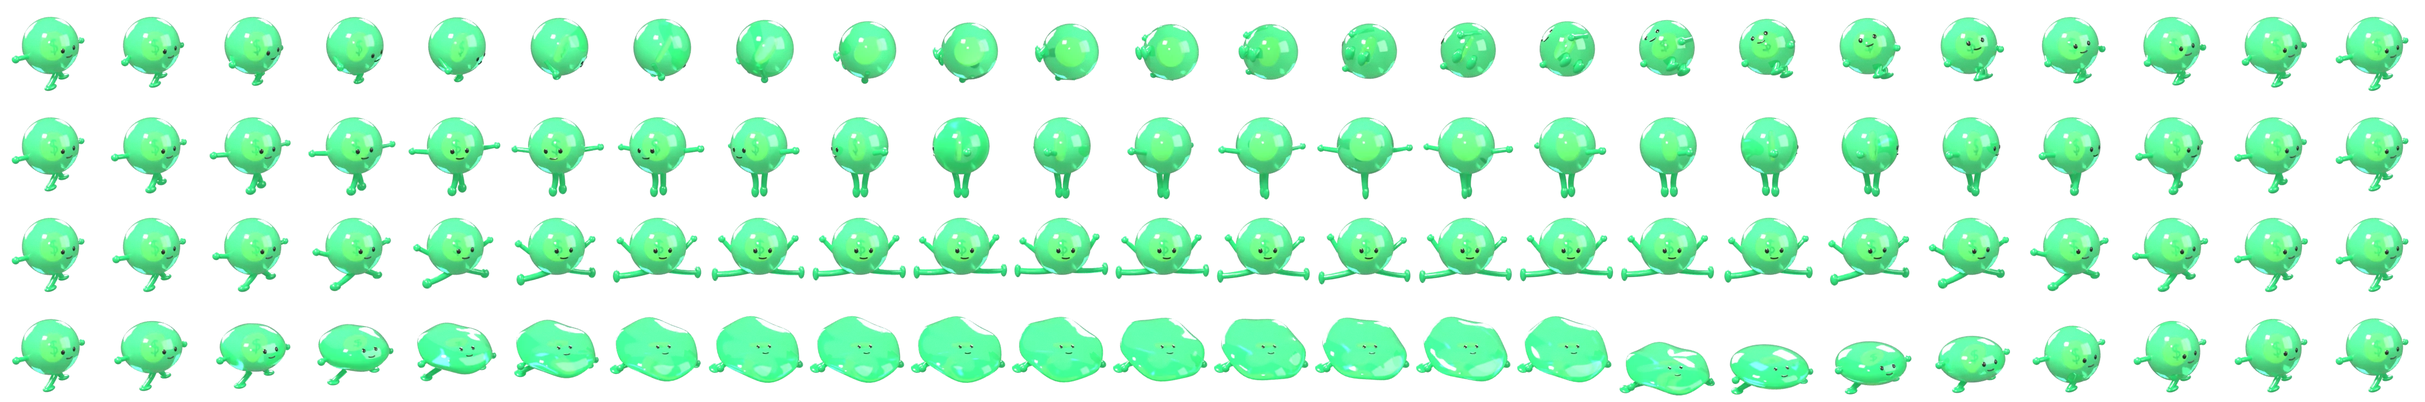
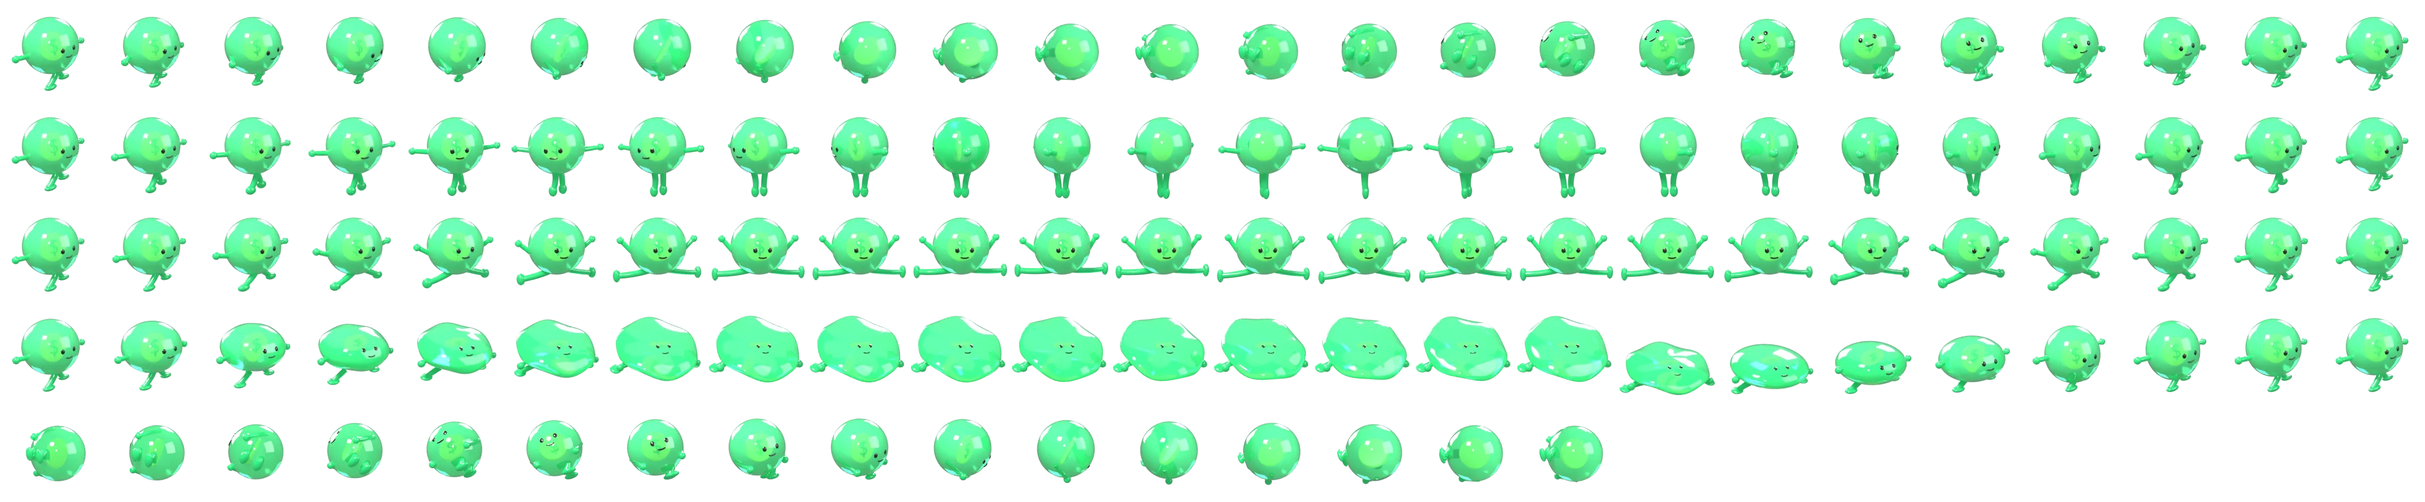
Trick combos stage 2: double/triple cork (16 new rendered loop frames per skin, row 4 of the trick sheets) and a longer split (replayed hold); each pass is a chain link
Claude-Session: https://claude.ai/code/session_019fbWZDG8AA78UUR4FNVub3

diff --git a/index.html b/index.html
@@ -1622,8 +1622,9 @@ function step(dt){if(R.dead)return;if(R.stop>0){R.stop-=dt;R.zp*=Math.exp(-6*dt)
  if(R.trk){const T=R.trk;T.boost=(T.boost||0)*Math.exp(-3*dt);let rate=Math.min(2.6,1+T.boost);
   if(R.air&&T.k!=='goo'&&isFinite(gy)){/* land-aware warp: finish (and drop queued tricks that can't fit) before touchdown, never land mid-rotation */
    const gg=G*(R.cpFly&&R.vy>0?.4:1)*(R.slam?1.8:1)*trkG(),dh=gy-R.y,tg=dh>0?(-R.vy+Math.sqrt(R.vy*R.vy+2*gg*dh))/gg:0;
-   const rem=()=>T.d-T.t+R.cq.reduce((a,k)=>a+(k==='goo'?.25:TRK[k].d),0);while(R.cq.length&&rem()>tg*2.6)R.cq.pop();if(tg>0&&rem()/rate>tg)rate=Math.min(2.6,rem()/tg)}
-  T.t+=dt*(T.land!=null?1:rate);
+   const rem=()=>T.d-T.t+(T.ex?T.ex*LP[T.k][2]*T.d/23-(T.lp?T.lt:0):0)+R.cq.reduce((a,k)=>a+(k==='goo'?.25:TRK[k].d),0);while(R.cq.length&&rem()>tg*2.6)R.cq.pop();while(T.ex>(T.lp?1:0)&&rem()>tg*2.6)T.ex--;if(tg>0&&rem()/rate>tg)rate=Math.min(2.6,rem()/tg)}
+  if(T.lp){if((T.lt+=dt*rate)>=LP[T.k][2]*T.d/23){T.lt=0;if(R.air){R.cn++;R.cnames.push(T.k);R.clbl=chainName(R.cnames);R.clblT=1.4;sfx('perfect')}if(!--T.ex){T.lp=0;T.t=(LP[T.k][0]+.5)*T.d/23}}}
+  else{T.t+=dt*(T.land!=null?1:rate);if(T.ex&&T.t>=LP[T.k][0]*T.d/23){T.t=LP[T.k][0]*T.d/23;T.lp=1;T.lt=0}}
   if(T.k!=='goo'&&T.t>=T.d&&!T.ok){T.ok=1;if(R.air){R.cn++;R.cnames.push(T.k);R.clbl=chainName(R.cnames);R.clblT=1.4;sfx('perfect')}}/* counted on completion, paid on a clean landing */
   if(T.k==='goo'?T.land!=null&&T.t-T.land>=.3:T.t>=T.d){R.trk=null;if(R.cq.length&&R.air)startTrick(R.cq.shift(),T.boost*.5)}/* hand-off at the shared rest pose: seamless */if(T.k==='goo'&&R.air&&!RMQ.matches&&Math.random()<dt*14)R.fx.push({x:R.sx+rnd(-70,70)*VK,y:R.y-rnd(40,70)*VK,vx:rnd(-40,40),vy:rnd(0,80),l:rnd(.3,.5),c:'#d9b25c',g:.6})}/* goo drips */if(R.fadeT>0)R.fadeT-=dt;if(R.flip>0)R.flip-=dt*(R.pend?3:1);if(R.pend&&!(R.flip>0)){const k_=R.pend;R.pend=null;if(R.air&&!R.trk)startTrick(k_,0)}/* a trick swiped mid-flip waits for the flip, which hurries to finish */if(!R.air&&R.cpFly)R.cpFly=0;if(powered(R)&&!RMQ.matches&&Math.random()<dt*28)R.fx.push({x:R.sx+rnd(-50,20)*VK,y:R.y-rnd(20,150)*VK,vx:rnd(-260,-120),vy:rnd(-60,40),l:rnd(.25,.45),c:formOf(R)[3]?formOf(R)[3][Math.random()<.5?0:1]:'hsl('+Math.round(Math.random()*360)+',95%,62%)',g:.05});
  if(!R.air){if(isFinite(gy)){if(gy-R.y<=DESC*dt){const up=R.y-gy;R.y=up>30?R.y-up*Math.min(1,dt*16):gy;/* a sudden rise (a curb or wall edge) is climbed smoothly */R.coy=0;R.refY=gy}else{R.air=true;R.jumps=1;R.vy=0;R.top0=R.y}}else if((R.coy+=dt)>.14){R.air=true;R.jumps=1;R.vy=0;R.top0=R.y}}
@@ -1772,13 +1773,13 @@ const GAIT={walk:[0,74/3],jog:[24,62/3],run:[48,50/3]},RC=53,/* runner sheets: 1
 const TRK={cork:{d:.62,n:'CORKSPIN'},spin:{d:.55,n:'SPIN'},split:{d:.6,n:'SPLIT'},goo:{d:.7,n:'PANCAKE'},shove:{d:.55,n:'360 SHOVE-IT'},tre:{d:.6,n:'TRE FLIP'},indy:{d:.62,n:'INDY GRAB'},jesus:{d:.75,n:'JESUS'}};
 /* sheet index (row*12+col) of the trick frame to draw, or -1. Rows: cork, spin, split, goo; 12 frames each, frames 0 and 11 = the runner's fall pose.
    cork/spin/split play straight through over d. goo: 0-7 melt in (.22 s), 8-15 loop at 28 fps until landing, 16-23 splat + spring back (.3 s). */
-function trickFrame(s){const T=s.trk;if(!T||SKT[T.k]!=null)return -1;const r=TROW[T.k]*24;if(T.k!=='goo')return r+Math.min(23,Math.round(T.t/T.d*23));if(T.land!=null)return r+16+Math.min(7,Math.floor((T.t-T.land)/.3*8));if(T.t<.22)return r+Math.min(7,Math.floor(T.t/.22*8));return r+8+(RMQ.matches?0:Math.floor((T.t-.22)*28)%8)}
-const TROW={cork:0,spin:1,split:2,goo:3};
+function trickFrame(s){const T=s.trk;if(!T||SKT[T.k]!=null)return -1;const r=TROW[T.k]*24;if(T.lp)return LP[T.k][1]+Math.min(LP[T.k][2]-1,Math.floor(T.lt*23/T.d));if(T.k!=='goo')return r+Math.min(23,Math.round(T.t/T.d*23));if(T.land!=null)return r+16+Math.min(7,Math.floor((T.t-T.land)/.3*8));if(T.t<.22)return r+Math.min(7,Math.floor(T.t/.22*8));return r+8+(RMQ.matches?0:Math.floor((T.t-.22)*28)%8)}
+const TROW={cork:0,spin:1,split:2,goo:3};/* 'again' loops: [after trick frame, first sheet frame, frames]. Double cork = 16 rendered frames of one more turn (row 4); a longer split replays its hold (frames 8-15) */const LP={cork:[11,96,16],split:[15,56,8]};
 function flickDir(dx,dy){return Math.abs(dx)>Math.abs(dy)?(dx<0?'cork':'spin'):dy<0?'split':'goo'}/* screen px, y down: up = split, straight down = goo, down-left = cork, down-right = spin */
 /* tricks nudge the arc (ANIMATION.md 4): spin hangs (x.85), split floats (x.7), at most +.35 s extra hang a jump */function trkG(){const k=R.air&&(R.hang||0)<.35&&R.trk&&R.trk.k;return k==='spin'?.85:k==='split'?.7:1}
 function trick(k){if(!R||R.dead||paused||!document.getElementById('gameCard').hidden)return;if(LEARN<(LNEED[k]||0)){if(!R.lockMsg||R.t-R.lockMsg>2.5){R.lockMsg=R.t;msg((k==='cork'?'← CASH':k==='spin'?'→ ALL IN':'↑↓ LONG / SHORT')+' unlocks in a later run (or in the pause menu)');R.msgT=2}return}/* not taught yet: the swipe is ignored, with a hint */if(R.pos.allin&&k==='spin')k=R.skR++%2?'indy':'tre';/* on the board: → = TRE FLIP then INDY GRAB; ↑/↓ flip long/short and stay on the board; ← steps off the board back to NEUTRAL */else{setPos(k);if(R.pos.allin)return}/* on the board ↑/↓ only flip direction (no ball trick) */patTrick(k);const T=R.trk;
  if(T){if(T.k==='goo'){if(k==='goo'&&!R.slam){R.slam=1;wob(.14,18);vib(10);dblSlam()}return}/* goo ends a chain; goo again = slam */
-  const last=R.cq.length?R.cq[R.cq.length-1]:T.k;if(R.cq.length<2)R.cq.push(k);T.boost=Math.min(1.6,(T.boost||0)+(k===last?.6:.3));if(k==='cork'&&last==='cork'&&!R.hop){R.hop=1;R.vy-=140}/* cork again: one extra hop a jump */vib(6);return}/* queue; same again winds it up harder */
+  const last=R.cq.length?R.cq[R.cq.length-1]:T.k;if(k===T.k&&!R.cq.length&&LP[k]&&(T.ex||0)<2&&(T.lp||T.t<LP[k][0]/23*T.d))T.ex=(T.ex||0)+1;/* same again mid-trick: one more turn (double, triple) */else if(R.cq.length<2)R.cq.push(k);T.boost=Math.min(1.6,(T.boost||0)+(k===last?.6:.3));if(k==='cork'&&last==='cork'&&!R.hop){R.hop=1;R.vy-=140}/* cork again: one extra hop a jump */vib(6);return}/* queue; same again winds it up harder */
  if(R.pend){if(R.cq.length<2)R.cq.push(k);return}
  if(!R.air){hold=true;tap()}if(!R.air)return;if(R.flip>0){R.pend=k;sfx('jump2');vib(8);return}startTrick(k,0);sfx('jump2');vib(8)}
 /* market position (docs/MARKET.md): ↑ long (again = 2x), ↓ short (again = 2x), ← cash (open gains move to the safe cash bar), → all in (cash + open back in, long 3x).
@@ -1814,7 +1815,7 @@ function heartEyes(g,s,fi,ox,oy,kx,ky){const E=LOVE_EYES[fi];if(!E||!ok(HEART))r
  for(let k=0;k<2;k++){const ex=ox+E[2*k]*kx,ey=oy+E[2*k+1]*ky,dx=(E[2*k]-mx)*kx,sz=92*pop*b;/* each heart flies a little out from the face and up */
   g.save();g.translate(ex+dx*.5*pop,ey-14*pop);g.rotate((k?.16:-.16)+.05*Math.sin(t*9+k));g.drawImage(HEART,-sz/2,-sz/2,sz,sz);g.restore()}}
 function react(k,d){if(RMQ.matches||(R.rx&&R.rx.t>0&&RPRI[R.rx.k]>RPRI[k]))return;R.rx={k,t:d,d}}/* a short body reaction; a bigger one is not cut off by a smaller one */
-const HEADS={"run":[[124.7,60.2,124.7,33.6],[124.7,60.6,124.7,33.9],[124.7,61.5,124.7,34.9],[124.7,62.9,124.7,36.3],[124.7,64.2,124.7,37.6],[124.7,65.1,124.7,38.6],[124.7,65.5,124.7,38.9],[124.7,65.1,124.7,38.6],[124.7,64.2,124.7,37.6],[124.7,62.9,124.7,36.3],[124.7,61.5,124.7,34.9],[124.7,60.6,124.7,33.9],[124.7,60.2,124.7,33.6],[124.7,60.6,124.7,33.9],[124.7,61.5,124.7,34.9],[124.7,62.9,124.7,36.3],[124.7,64.2,124.7,37.6],[124.7,65.1,124.7,38.6],[124.7,65.5,124.7,38.9],[124.7,65.1,124.7,38.6],[124.7,64.2,124.7,37.6],[124.7,62.9,124.7,36.3],[124.7,61.5,124.7,34.9],[124.7,60.6,124.7,33.9],[132.8,59.1,135.7,33.2],[132.8,59.7,135.7,33.8],[132.6,61.4,135.5,35.5],[132.3,63.6,135.2,37.8],[132.1,65.9,135.0,40.0],[131.9,67.6,134.8,41.7],[131.8,68.2,134.7,42.3],[131.9,67.6,134.8,41.7],[132.1,65.9,135.0,40.0],[132.3,63.6,135.2,37.8],[132.6,61.4,135.5,35.5],[132.8,59.7,135.7,33.8],[132.8,59.1,135.7,33.2],[132.8,59.7,135.7,33.8],[132.6,61.4,135.5,35.5],[132.3,63.6,135.2,37.8],[132.1,65.9,135.0,40.0],[131.9,67.6,134.8,41.7],[131.8,68.2,134.7,42.3],[131.9,67.6,134.8,41.7],[132.1,65.9,135.0,40.0],[132.3,63.6,135.2,37.8],[132.6,61.4,135.5,35.5],[132.8,59.7,135.7,33.8],[143.4,58.5,149.6,34.2],[143.1,59.5,149.3,35.3],[142.4,62.5,148.6,38.2],[141.4,66.4,147.6,42.1],[140.3,70.4,146.6,46.0],[139.6,73.3,145.8,48.9],[139.3,74.4,145.6,50.0],[139.6,73.3,145.8,48.9],[140.3,70.4,146.6,46.0],[141.4,66.4,147.6,42.1],[142.4,62.5,148.6,38.2],[143.1,59.5,149.3,35.3],[143.4,58.5,149.6,34.2],[143.1,59.5,149.3,35.3],[142.4,62.5,148.6,38.2],[141.4,66.4,147.6,42.1],[140.3,70.4,146.6,46.0],[139.6,73.3,145.8,48.9],[139.3,74.4,145.6,50.0],[139.6,73.3,145.8,48.9],[140.3,70.4,146.6,46.0],[141.4,66.4,147.6,42.1],[142.4,62.5,148.6,38.2],[143.1,59.5,149.3,35.3],[129.6,73.7,131.8,47.7],[129.3,71.5,131.2,45.4],[128.4,66.7,129.8,40.4],[127.3,61.8,128.3,35.4],[126.8,59.6,127.5,33.1],[125.8,59.1,126.2,32.5],[123.7,57.9,123.3,31.2],[121.5,56.8,120.3,29.9],[120.5,56.3,118.9,29.4],[118.6,59.2,116.3,32.3],[118.6,59.2,116.3,32.3],[118.6,59.2,116.3,32.3],[118.6,59.2,116.3,32.3],[118.6,59.2,116.3,32.3],[118.6,59.2,116.3,32.3],[118.6,59.2,116.3,32.3],[118.6,59.2,116.3,32.3],[118.6,59.2,116.3,32.3],[118.6,59.2,116.3,32.3],[118.6,59.2,116.3,32.3],[118.6,59.2,116.3,32.3],[115.0,63.8,111.2,37.0],[115.0,63.8,111.2,37.0],[115.0,63.8,111.2,37.0],[115.0,63.8,111.2,37.0],[115.0,63.8,111.2,37.0],[115.0,63.8,111.2,37.0],[115.0,63.8,111.2,37.0],[115.0,63.8,111.2,37.0],[115.0,63.8,111.2,37.0],[115.0,63.8,111.2,37.0],[115.0,63.8,111.2,37.0],[115.0,63.8,111.2,37.0]],"trick":[[115.0,63.8,111.2,37.0],[116.0,63.8,112.6,36.9],[119.2,64.0,117.0,36.9],[124.9,64.8,125.0,37.7],[133.6,67.2,137.3,40.6],[145.2,71.6,153.8,46.6],[158.8,78.6,173.0,56.4],[172.3,87.7,192.0,69.6],[183.1,97.7,206.7,84.2],[188.6,106.9,213.3,97.4],[187.5,113.4,210.7,106.8],[180.1,116.2,199.5,110.9],[167.8,114.9,182.4,109.4],[153.0,110.2,162.3,103.3],[137.8,102.9,142.1,93.7],[124.3,94.3,124.1,82.1],[113.9,85.6,110.3,70.2],[107.5,77.9,101.4,59.2],[105.0,71.7,97.8,50.2],[105.6,67.6,98.5,43.8],[108.3,65.2,102.0,39.9],[111.5,64.1,106.3,37.9],[114.1,63.8,109.8,37.2],[115.0,63.8,111.2,37.0],[115.0,63.8,111.2,37.0],[117.4,63.4,114.5,36.5],[118.9,63.2,116.6,36.3],[120.1,63.0,118.3,36.2],[121.2,62.9,119.8,36.2],[122.1,62.9,121.0,36.2],[122.8,62.9,122.1,36.2],[123.5,62.9,123.0,36.2],[124.0,62.9,123.7,36.2],[124.4,62.9,124.2,36.2],[124.6,62.9,124.5,36.2],[124.7,62.9,124.7,36.3],[124.7,62.9,124.7,36.3],[124.6,62.9,124.5,36.2],[124.4,62.9,124.2,36.2],[124.0,62.9,123.7,36.2],[123.5,62.9,123.0,36.2],[122.8,62.9,122.1,36.2],[122.1,62.9,121.0,36.2],[121.2,62.9,119.8,36.2],[120.1,63.0,118.3,36.2],[118.9,63.2,116.6,36.3],[117.4,63.4,114.5,36.5],[115.0,63.8,111.2,37.0],[115.0,63.8,111.2,37.0],[115.3,63.7,111.6,36.9],[116.3,63.5,112.9,36.7],[117.8,63.2,115.1,36.5],[119.8,63.0,117.9,36.3],[121.9,62.9,120.8,36.3],[123.7,62.9,123.2,36.2],[124.7,62.9,124.6,36.3],[124.7,62.9,124.7,36.3],[124.7,62.9,124.7,36.3],[124.7,62.9,124.7,36.3],[124.7,62.9,124.7,36.3],[124.7,62.9,124.7,36.3],[124.7,62.9,124.7,36.3],[124.7,62.9,124.7,36.3],[124.7,62.9,124.7,36.3],[124.7,62.9,124.6,36.3],[123.7,62.9,123.2,36.2],[121.9,62.9,120.8,36.3],[119.8,63.0,117.9,36.3],[117.8,63.2,115.1,36.5],[116.3,63.5,112.9,36.7],[115.3,63.7,111.6,36.9],[115.0,63.8,111.2,37.0],[116.5,65.1,113.2,38.3],[120.0,68.9,118.3,42.0],[123.9,74.8,124.4,48.3],[127.0,82.0,129.6,56.5],[128.7,89.4,133.1,65.6],[129.3,95.6,134.7,73.7],[129.2,99.7,135.2,79.5],[129.1,101.2,135.3,81.6],[129.1,101.2,135.3,81.6],[129.1,101.2,135.3,81.6],[129.1,101.2,135.3,81.6],[129.1,101.2,135.3,81.6],[129.1,101.2,135.3,81.6],[129.1,101.2,135.3,81.6],[129.1,101.2,135.3,81.6],[129.1,101.2,135.3,81.6],[127.5,133.8,131.3,110.9],[128.0,125.2,130.8,101.1],[126.9,110.5,127.9,84.9],[124.7,97.7,124.3,71.6],[117.0,77.3,113.2,50.9],[115.7,68.3,111.8,41.6],[115.2,64.7,111.3,37.9],[115.0,63.8,111.2,37.0]],"skate":[[147.9,51.3,152.1,25.8],[147.8,52.2,152.0,26.7],[147.7,52.8,151.9,27.4],[147.6,53.1,151.8,27.6],[147.7,52.8,151.9,27.4],[147.8,52.2,152.0,26.7],[147.9,51.3,152.1,25.8],[148.1,50.3,152.3,24.9],[148.2,49.7,152.4,24.2],[148.2,49.4,152.4,24.0],[148.2,49.7,152.4,24.2],[148.1,50.3,152.3,24.9],[136.5,49.2,138.7,22.9],[136.4,50.1,138.6,23.9],[136.4,50.8,138.5,24.6],[136.4,51.1,138.5,24.8],[136.4,50.8,138.5,24.6],[136.4,50.1,138.6,23.9],[136.5,49.2,138.7,22.9],[136.6,48.2,138.8,22.0],[136.7,47.5,138.8,21.3],[136.7,47.3,138.8,21.0],[136.7,47.5,138.8,21.3],[136.6,48.2,138.8,22.0],[124.7,48.3,124.7,21.5],[124.7,49.2,124.7,22.5],[124.7,49.9,124.7,23.2],[124.7,50.2,124.7,23.4],[124.7,49.9,124.7,23.2],[124.7,49.2,124.7,22.5],[124.7,48.3,124.7,21.5],[124.7,47.3,124.7,20.5],[124.7,46.6,124.7,19.8],[124.7,46.3,124.7,19.5],[124.7,46.6,124.7,19.8],[124.7,47.3,124.7,20.5],[112.7,48.6,110.3,21.5],[112.7,49.6,110.4,22.5],[112.8,50.3,110.5,23.2],[112.8,50.5,110.5,23.5],[112.8,50.3,110.5,23.2],[112.7,49.6,110.4,22.5],[112.7,48.6,110.3,21.5],[112.6,47.6,110.3,20.5],[112.5,46.9,110.2,19.8],[112.5,46.7,110.2,19.5],[112.5,46.9,110.2,19.8],[112.6,47.6,110.3,20.5],[100.4,50.2,95.7,23.0],[100.6,51.2,95.9,24.0],[100.7,51.9,96.0,24.7],[100.7,52.1,96.0,25.0],[100.7,51.9,96.0,24.7],[100.6,51.2,95.9,24.0],[100.4,50.2,95.7,23.0],[100.2,49.2,95.5,22.0],[100.1,48.5,95.4,21.3],[100.1,48.3,95.3,21.0],[100.1,48.5,95.4,21.3],[100.2,49.2,95.5,22.0],[124.7,53.6,124.7,26.9],[124.7,46.7,124.7,19.9],[124.7,38.0,124.7,11.1],[124.7,35.9,124.7,9.0],[124.7,32.6,124.7,5.6],[124.7,32.1,124.7,5.1],[124.7,32.0,124.7,5.0],[124.7,32.6,124.7,5.6],[124.7,37.0,124.7,10.1],[124.7,39.5,124.7,12.6],[124.7,45.9,124.7,19.1],[124.7,50.9,124.7,24.2],[124.7,48.3,124.7,21.5],[124.7,45.1,124.7,18.2],[124.7,42.0,124.7,15.1],[124.7,39.2,124.7,12.3],[124.7,36.8,124.7,9.8],[124.7,34.9,124.7,7.9],[124.7,33.5,124.7,6.6],[124.7,32.9,124.7,5.9],[124.7,32.9,124.7,5.9],[124.7,33.5,124.7,6.6],[124.7,34.9,124.7,7.9],[124.7,36.8,124.7,9.8],[124.7,39.2,124.7,12.3],[124.7,42.0,124.7,15.1],[124.7,45.1,124.7,18.2],[124.7,48.3,124.7,21.5],[124.7,48.3,124.7,21.5],[124.7,45.7,124.7,18.9],[124.7,43.2,124.7,16.4],[124.7,40.9,124.7,14.0],[124.7,38.8,124.7,11.9],[124.7,36.9,124.7,10.0],[124.7,35.3,124.7,8.4],[124.7,34.1,124.7,7.1],[124.7,33.2,124.7,6.3],[124.7,32.8,124.7,5.9],[124.7,32.8,124.7,5.9],[124.7,33.2,124.7,6.3],[124.7,34.1,124.7,7.1],[124.7,35.3,124.7,8.4],[124.7,36.9,124.7,10.0],[124.7,38.8,124.7,11.9],[124.7,40.9,124.7,14.0],[124.7,43.2,124.7,16.4],[124.7,45.7,124.7,18.9],[124.7,48.3,124.7,21.5],[124.7,48.3,124.7,21.5],[124.7,45.7,124.7,18.9],[124.7,43.2,124.7,16.4],[124.7,40.9,124.7,14.0],[124.7,38.8,124.7,11.9],[124.7,36.9,124.7,10.0],[124.7,35.3,124.7,8.4],[124.7,34.1,124.7,7.1],[124.7,33.2,124.7,6.3],[124.7,32.8,124.7,5.9],[124.7,32.8,124.7,5.9],[124.7,33.2,124.7,6.3],[124.7,34.1,124.7,7.1],[124.7,35.3,124.7,8.4],[124.7,36.9,124.7,10.0],[124.7,38.8,124.7,11.9],[124.7,40.9,124.7,14.0],[124.7,43.2,124.7,16.4],[124.7,45.7,124.7,18.9],[124.7,48.3,124.7,21.5],[124.7,48.3,124.7,21.5],[124.7,45.4,124.7,18.6],[124.7,42.6,124.7,15.8],[124.7,40.0,124.7,13.1],[124.7,37.6,124.7,10.7],[124.7,35.5,124.7,8.6],[124.7,33.7,124.7,6.8],[124.7,32.4,124.7,5.4],[124.7,31.4,124.7,4.4],[124.7,31.0,124.7,4.0],[124.7,31.0,124.7,4.0],[124.7,31.4,124.7,4.4],[124.7,32.4,124.7,5.4],[124.7,33.7,124.7,6.8],[124.7,35.5,124.7,8.6],[124.7,37.6,124.7,10.7],[124.7,40.0,124.7,13.1],[124.7,42.6,124.7,15.8],[124.7,45.4,124.7,18.6],[124.7,48.3,124.7,21.5],[124.7,48.3,124.7,21.5],[124.7,44.5,124.7,17.7],[124.7,40.3,124.7,13.4],[124.7,35.9,124.7,8.9],[124.7,31.8,124.7,4.8],[124.7,28.4,124.7,1.4],[124.7,26.1,124.7,-0.9],[124.7,24.5,124.7,-2.5],[124.7,23.4,124.7,-3.6],[124.7,22.9,124.7,-4.2],[124.7,22.9,124.7,-4.2],[124.7,23.4,124.7,-3.6],[124.7,24.5,124.7,-2.5],[124.7,26.1,124.7,-0.9],[124.7,28.4,124.7,1.4],[124.7,31.8,124.7,4.8],[124.7,35.9,124.7,8.9],[124.7,40.3,124.7,13.4],[124.7,44.5,124.7,17.7],[124.7,48.3,124.7,21.5]]},HAT_META={"top":[99,67,49.8,58.3],"crown":[90,51,45.8,44.3],"prop":[92,81,45.8,44.3]},SKATE_OFF=[-103,-189];/* filled by the asset packer: head anchors per frame, hat sprite [w,h,anchorX,anchorY], skate sheet offset */
+const HEADS={"run":[[124.7,60.2,124.7,33.6],[124.7,60.6,124.7,33.9],[124.7,61.5,124.7,34.9],[124.7,62.9,124.7,36.3],[124.7,64.2,124.7,37.6],[124.7,65.1,124.7,38.6],[124.7,65.5,124.7,38.9],[124.7,65.1,124.7,38.6],[124.7,64.2,124.7,37.6],[124.7,62.9,124.7,36.3],[124.7,61.5,124.7,34.9],[124.7,60.6,124.7,33.9],[124.7,60.2,124.7,33.6],[124.7,60.6,124.7,33.9],[124.7,61.5,124.7,34.9],[124.7,62.9,124.7,36.3],[124.7,64.2,124.7,37.6],[124.7,65.1,124.7,38.6],[124.7,65.5,124.7,38.9],[124.7,65.1,124.7,38.6],[124.7,64.2,124.7,37.6],[124.7,62.9,124.7,36.3],[124.7,61.5,124.7,34.9],[124.7,60.6,124.7,33.9],[132.8,59.1,135.7,33.2],[132.8,59.7,135.7,33.8],[132.6,61.4,135.5,35.5],[132.3,63.6,135.2,37.8],[132.1,65.9,135.0,40.0],[131.9,67.6,134.8,41.7],[131.8,68.2,134.7,42.3],[131.9,67.6,134.8,41.7],[132.1,65.9,135.0,40.0],[132.3,63.6,135.2,37.8],[132.6,61.4,135.5,35.5],[132.8,59.7,135.7,33.8],[132.8,59.1,135.7,33.2],[132.8,59.7,135.7,33.8],[132.6,61.4,135.5,35.5],[132.3,63.6,135.2,37.8],[132.1,65.9,135.0,40.0],[131.9,67.6,134.8,41.7],[131.8,68.2,134.7,42.3],[131.9,67.6,134.8,41.7],[132.1,65.9,135.0,40.0],[132.3,63.6,135.2,37.8],[132.6,61.4,135.5,35.5],[132.8,59.7,135.7,33.8],[143.4,58.5,149.6,34.2],[143.1,59.5,149.3,35.3],[142.4,62.5,148.6,38.2],[141.4,66.4,147.6,42.1],[140.3,70.4,146.6,46.0],[139.6,73.3,145.8,48.9],[139.3,74.4,145.6,50.0],[139.6,73.3,145.8,48.9],[140.3,70.4,146.6,46.0],[141.4,66.4,147.6,42.1],[142.4,62.5,148.6,38.2],[143.1,59.5,149.3,35.3],[143.4,58.5,149.6,34.2],[143.1,59.5,149.3,35.3],[142.4,62.5,148.6,38.2],[141.4,66.4,147.6,42.1],[140.3,70.4,146.6,46.0],[139.6,73.3,145.8,48.9],[139.3,74.4,145.6,50.0],[139.6,73.3,145.8,48.9],[140.3,70.4,146.6,46.0],[141.4,66.4,147.6,42.1],[142.4,62.5,148.6,38.2],[143.1,59.5,149.3,35.3],[129.6,73.7,131.8,47.7],[129.3,71.5,131.2,45.4],[128.4,66.7,129.8,40.4],[127.3,61.8,128.3,35.4],[126.8,59.6,127.5,33.1],[125.8,59.1,126.2,32.5],[123.7,57.9,123.3,31.2],[121.5,56.8,120.3,29.9],[120.5,56.3,118.9,29.4],[118.6,59.2,116.3,32.3],[118.6,59.2,116.3,32.3],[118.6,59.2,116.3,32.3],[118.6,59.2,116.3,32.3],[118.6,59.2,116.3,32.3],[118.6,59.2,116.3,32.3],[118.6,59.2,116.3,32.3],[118.6,59.2,116.3,32.3],[118.6,59.2,116.3,32.3],[118.6,59.2,116.3,32.3],[118.6,59.2,116.3,32.3],[118.6,59.2,116.3,32.3],[115.0,63.8,111.2,37.0],[115.0,63.8,111.2,37.0],[115.0,63.8,111.2,37.0],[115.0,63.8,111.2,37.0],[115.0,63.8,111.2,37.0],[115.0,63.8,111.2,37.0],[115.0,63.8,111.2,37.0],[115.0,63.8,111.2,37.0],[115.0,63.8,111.2,37.0],[115.0,63.8,111.2,37.0],[115.0,63.8,111.2,37.0],[115.0,63.8,111.2,37.0]],"trick":[[115.0,63.8,111.2,37.0],[116.0,63.8,112.6,36.9],[119.2,64.0,117.0,36.9],[124.9,64.8,125.0,37.7],[133.6,67.2,137.3,40.6],[145.2,71.6,153.8,46.6],[158.8,78.6,173.0,56.4],[172.3,87.7,192.0,69.6],[183.1,97.7,206.7,84.2],[188.6,106.9,213.3,97.4],[187.5,113.4,210.7,106.8],[180.1,116.2,199.5,110.9],[167.8,114.9,182.4,109.4],[153.0,110.2,162.3,103.3],[137.8,102.9,142.1,93.7],[124.3,94.3,124.1,82.1],[113.9,85.6,110.3,70.2],[107.5,77.9,101.4,59.2],[105.0,71.7,97.8,50.2],[105.6,67.6,98.5,43.8],[108.3,65.2,102.0,39.9],[111.5,64.1,106.3,37.9],[114.1,63.8,109.8,37.2],[115.0,63.8,111.2,37.0],[115.0,63.8,111.2,37.0],[117.4,63.4,114.5,36.5],[118.9,63.2,116.6,36.3],[120.1,63.0,118.3,36.2],[121.2,62.9,119.8,36.2],[122.1,62.9,121.0,36.2],[122.8,62.9,122.1,36.2],[123.5,62.9,123.0,36.2],[124.0,62.9,123.7,36.2],[124.4,62.9,124.2,36.2],[124.6,62.9,124.5,36.2],[124.7,62.9,124.7,36.3],[124.7,62.9,124.7,36.3],[124.6,62.9,124.5,36.2],[124.4,62.9,124.2,36.2],[124.0,62.9,123.7,36.2],[123.5,62.9,123.0,36.2],[122.8,62.9,122.1,36.2],[122.1,62.9,121.0,36.2],[121.2,62.9,119.8,36.2],[120.1,63.0,118.3,36.2],[118.9,63.2,116.6,36.3],[117.4,63.4,114.5,36.5],[115.0,63.8,111.2,37.0],[115.0,63.8,111.2,37.0],[115.3,63.7,111.6,36.9],[116.3,63.5,112.9,36.7],[117.8,63.2,115.1,36.5],[119.8,63.0,117.9,36.3],[121.9,62.9,120.8,36.3],[123.7,62.9,123.2,36.2],[124.7,62.9,124.6,36.3],[124.7,62.9,124.7,36.3],[124.7,62.9,124.7,36.3],[124.7,62.9,124.7,36.3],[124.7,62.9,124.7,36.3],[124.7,62.9,124.7,36.3],[124.7,62.9,124.7,36.3],[124.7,62.9,124.7,36.3],[124.7,62.9,124.7,36.3],[124.7,62.9,124.6,36.3],[123.7,62.9,123.2,36.2],[121.9,62.9,120.8,36.3],[119.8,63.0,117.9,36.3],[117.8,63.2,115.1,36.5],[116.3,63.5,112.9,36.7],[115.3,63.7,111.6,36.9],[115.0,63.8,111.2,37.0],[116.5,65.1,113.2,38.3],[120.0,68.9,118.3,42.0],[123.9,74.8,124.4,48.3],[127.0,82.0,129.6,56.5],[128.7,89.4,133.1,65.6],[129.3,95.6,134.7,73.7],[129.2,99.7,135.2,79.5],[129.1,101.2,135.3,81.6],[129.1,101.2,135.3,81.6],[129.1,101.2,135.3,81.6],[129.1,101.2,135.3,81.6],[129.1,101.2,135.3,81.6],[129.1,101.2,135.3,81.6],[129.1,101.2,135.3,81.6],[129.1,101.2,135.3,81.6],[129.1,101.2,135.3,81.6],[127.5,133.8,131.3,110.9],[128.0,125.2,130.8,101.1],[126.9,110.5,127.9,84.9],[124.7,97.7,124.3,71.6],[117.0,77.3,113.2,50.9],[115.7,68.3,111.8,41.6],[115.2,64.7,111.3,37.9],[115.0,63.8,111.2,37.0],[168.4,115.1,183.2,109.6],[154.1,110.7,163.8,103.9],[139.1,103.7,143.8,94.6],[125.1,94.9,125.2,82.9],[113.7,85.4,110.0,69.9],[106.6,76.3,100.2,57.0],[105.1,68.9,97.8,45.9],[109.9,64.5,104.2,38.7],[121.1,64.2,119.6,37.0],[137.0,68.3,142.1,42.1],[154.9,76.4,167.6,53.3],[171.4,87.0,190.7,68.5],[183.3,97.9,206.9,84.5],[188.7,107.3,213.4,98.0],[187.4,113.6,210.4,107.1],[180.1,116.2,199.5,110.9]],"skate":[[147.9,51.3,152.1,25.8],[147.8,52.2,152.0,26.7],[147.7,52.8,151.9,27.4],[147.6,53.1,151.8,27.6],[147.7,52.8,151.9,27.4],[147.8,52.2,152.0,26.7],[147.9,51.3,152.1,25.8],[148.1,50.3,152.3,24.9],[148.2,49.7,152.4,24.2],[148.2,49.4,152.4,24.0],[148.2,49.7,152.4,24.2],[148.1,50.3,152.3,24.9],[136.5,49.2,138.7,22.9],[136.4,50.1,138.6,23.9],[136.4,50.8,138.5,24.6],[136.4,51.1,138.5,24.8],[136.4,50.8,138.5,24.6],[136.4,50.1,138.6,23.9],[136.5,49.2,138.7,22.9],[136.6,48.2,138.8,22.0],[136.7,47.5,138.8,21.3],[136.7,47.3,138.8,21.0],[136.7,47.5,138.8,21.3],[136.6,48.2,138.8,22.0],[124.7,48.3,124.7,21.5],[124.7,49.2,124.7,22.5],[124.7,49.9,124.7,23.2],[124.7,50.2,124.7,23.4],[124.7,49.9,124.7,23.2],[124.7,49.2,124.7,22.5],[124.7,48.3,124.7,21.5],[124.7,47.3,124.7,20.5],[124.7,46.6,124.7,19.8],[124.7,46.3,124.7,19.5],[124.7,46.6,124.7,19.8],[124.7,47.3,124.7,20.5],[112.7,48.6,110.3,21.5],[112.7,49.6,110.4,22.5],[112.8,50.3,110.5,23.2],[112.8,50.5,110.5,23.5],[112.8,50.3,110.5,23.2],[112.7,49.6,110.4,22.5],[112.7,48.6,110.3,21.5],[112.6,47.6,110.3,20.5],[112.5,46.9,110.2,19.8],[112.5,46.7,110.2,19.5],[112.5,46.9,110.2,19.8],[112.6,47.6,110.3,20.5],[100.4,50.2,95.7,23.0],[100.6,51.2,95.9,24.0],[100.7,51.9,96.0,24.7],[100.7,52.1,96.0,25.0],[100.7,51.9,96.0,24.7],[100.6,51.2,95.9,24.0],[100.4,50.2,95.7,23.0],[100.2,49.2,95.5,22.0],[100.1,48.5,95.4,21.3],[100.1,48.3,95.3,21.0],[100.1,48.5,95.4,21.3],[100.2,49.2,95.5,22.0],[124.7,53.6,124.7,26.9],[124.7,46.7,124.7,19.9],[124.7,38.0,124.7,11.1],[124.7,35.9,124.7,9.0],[124.7,32.6,124.7,5.6],[124.7,32.1,124.7,5.1],[124.7,32.0,124.7,5.0],[124.7,32.6,124.7,5.6],[124.7,37.0,124.7,10.1],[124.7,39.5,124.7,12.6],[124.7,45.9,124.7,19.1],[124.7,50.9,124.7,24.2],[124.7,48.3,124.7,21.5],[124.7,45.1,124.7,18.2],[124.7,42.0,124.7,15.1],[124.7,39.2,124.7,12.3],[124.7,36.8,124.7,9.8],[124.7,34.9,124.7,7.9],[124.7,33.5,124.7,6.6],[124.7,32.9,124.7,5.9],[124.7,32.9,124.7,5.9],[124.7,33.5,124.7,6.6],[124.7,34.9,124.7,7.9],[124.7,36.8,124.7,9.8],[124.7,39.2,124.7,12.3],[124.7,42.0,124.7,15.1],[124.7,45.1,124.7,18.2],[124.7,48.3,124.7,21.5],[124.7,48.3,124.7,21.5],[124.7,45.7,124.7,18.9],[124.7,43.2,124.7,16.4],[124.7,40.9,124.7,14.0],[124.7,38.8,124.7,11.9],[124.7,36.9,124.7,10.0],[124.7,35.3,124.7,8.4],[124.7,34.1,124.7,7.1],[124.7,33.2,124.7,6.3],[124.7,32.8,124.7,5.9],[124.7,32.8,124.7,5.9],[124.7,33.2,124.7,6.3],[124.7,34.1,124.7,7.1],[124.7,35.3,124.7,8.4],[124.7,36.9,124.7,10.0],[124.7,38.8,124.7,11.9],[124.7,40.9,124.7,14.0],[124.7,43.2,124.7,16.4],[124.7,45.7,124.7,18.9],[124.7,48.3,124.7,21.5],[124.7,48.3,124.7,21.5],[124.7,45.7,124.7,18.9],[124.7,43.2,124.7,16.4],[124.7,40.9,124.7,14.0],[124.7,38.8,124.7,11.9],[124.7,36.9,124.7,10.0],[124.7,35.3,124.7,8.4],[124.7,34.1,124.7,7.1],[124.7,33.2,124.7,6.3],[124.7,32.8,124.7,5.9],[124.7,32.8,124.7,5.9],[124.7,33.2,124.7,6.3],[124.7,34.1,124.7,7.1],[124.7,35.3,124.7,8.4],[124.7,36.9,124.7,10.0],[124.7,38.8,124.7,11.9],[124.7,40.9,124.7,14.0],[124.7,43.2,124.7,16.4],[124.7,45.7,124.7,18.9],[124.7,48.3,124.7,21.5],[124.7,48.3,124.7,21.5],[124.7,45.4,124.7,18.6],[124.7,42.6,124.7,15.8],[124.7,40.0,124.7,13.1],[124.7,37.6,124.7,10.7],[124.7,35.5,124.7,8.6],[124.7,33.7,124.7,6.8],[124.7,32.4,124.7,5.4],[124.7,31.4,124.7,4.4],[124.7,31.0,124.7,4.0],[124.7,31.0,124.7,4.0],[124.7,31.4,124.7,4.4],[124.7,32.4,124.7,5.4],[124.7,33.7,124.7,6.8],[124.7,35.5,124.7,8.6],[124.7,37.6,124.7,10.7],[124.7,40.0,124.7,13.1],[124.7,42.6,124.7,15.8],[124.7,45.4,124.7,18.6],[124.7,48.3,124.7,21.5],[124.7,48.3,124.7,21.5],[124.7,44.5,124.7,17.7],[124.7,40.3,124.7,13.4],[124.7,35.9,124.7,8.9],[124.7,31.8,124.7,4.8],[124.7,28.4,124.7,1.4],[124.7,26.1,124.7,-0.9],[124.7,24.5,124.7,-2.5],[124.7,23.4,124.7,-3.6],[124.7,22.9,124.7,-4.2],[124.7,22.9,124.7,-4.2],[124.7,23.4,124.7,-3.6],[124.7,24.5,124.7,-2.5],[124.7,26.1,124.7,-0.9],[124.7,28.4,124.7,1.4],[124.7,31.8,124.7,4.8],[124.7,35.9,124.7,8.9],[124.7,40.3,124.7,13.4],[124.7,44.5,124.7,17.7],[124.7,48.3,124.7,21.5]]},HAT_META={"top":[99,67,49.8,58.3],"crown":[90,51,45.8,44.3],"prop":[92,81,45.8,44.3]},SKATE_OFF=[-103,-189];/* filled by the asset packer: head anchors per frame, hat sprite [w,h,anchorX,anchorY], skate sheet offset */
 /* body colour = market position: light green/red = 1x, strong translucent green/red = 2x; gold = cash or all in */
 const skinOf=s=>{const P=s.pos;return P.d===0||P.flat&&!P.allin?'gold':P.allin?(P.d>0?'gg':'gr'):P.d>0?(P.lev>=2?'gg':'lg'):(P.lev>=2?'gr':'lr')};/* the board is strong green (long) or strong red (short); gold = NEUTRAL (run start) or CASH */
 /* skate sheet (10 columns): ride 0-59 = 5 slopes (-30,-15,0,15,30 deg) x 12-frame loop, then the sequences */
@@ -1867,7 +1868,7 @@ function player(x,y,s){const g=cx,F=formOf(s),pw=!!F,sk=skinOf(s);ldSkin(sk);con
  else if(cpf){const fw=li.naturalWidth/8,fh=li.naturalHeight,Hh=fh*217/182,Ww=Hh*fw/fh,fi=s.vy<0?Math.floor(s.t*12)%4:4+Math.floor(s.t*15)%4;D=[li,fi*fw,0,fw,fh,-Ww/2,-Hh+8,Ww,Hh];fam='love'+lk;post=()=>heartEyes(g,s,fi,-Ww/2,-Hh+8,Ww/fw,Hh/fh);hd=HEADS.run[fi<4?81+3*fi:93+3*(fi-4)]}/* love frames: rise 0-3, fall 4-7; same pixel scale as the runner sheet */
  else if(ok(im)){const pk=s.pos.d===0&&!s.pos.flat?'cash':'',sm=pk&&ok(CASH)?CASH:im,x0=sm===im?50:PROP_X0.cash;const fw=sm.naturalWidth/RC,fh=sm.naturalHeight/2,Hh=217,Ww=Hh*fw/fh,G=GAIT[gaitOf(s)];
   const fi=!s.air?G[0]+Math.floor(s.sx/G[1])%24:s.tko>0?72+Math.min(8,Math.floor((1-s.tko/TKO)*9)):s.vy<0?81+Math.floor(s.t*36)%12:93+Math.floor(s.t*45)%12;
-  const ti=TRICKI[lk];if(tf>=0&&ok(ti)){const tw_=ti.naturalWidth/24,th=ti.naturalHeight/4,K=217/182;D=[ti,tf%24*tw_,(tf/24|0)*th,tw_,th,TRICK_OFF[0]*K,TRICK_OFF[1]*K+8,tw_*K,th*K];fam='tr'+lk;hd=HEADS.trick[tf]}else{D=[sm,fi%RC*fw,(fi/RC|0)*fh,fw,fh,-(118-x0)*Hh/fh,-Hh+8,Ww,Hh];fam='run'+lk+pk;hd=HEADS.run[fi]}}
+  const ti=TRICKI[lk];if(tf>=0&&ok(ti)){const tw_=ti.naturalWidth/24,th=ti.naturalHeight/5,K=217/182;D=[ti,tf%24*tw_,(tf/24|0)*th,tw_,th,TRICK_OFF[0]*K,TRICK_OFF[1]*K+8,tw_*K,th*K];fam='tr'+lk;hd=HEADS.trick[tf]}else{D=[sm,fi%RC*fw,(fi/RC|0)*fh,fw,fh,-(118-x0)*Hh/fh,-Hh+8,Ww,Hh];fam='run'+lk+pk;hd=HEADS.run[fi]}}
  else{g.fillStyle='#cea85c';g.beginPath();g.arc(0,-90,70,0,6.3);g.fill()}
  if(D){if(s.fam!==fam){if(s.lastD&&!RMQ.matches){s.fadeD=s.lastD;s.fadeH=s.lastH;s.fadeT=.11}s.fam=fam}/* blend: any change of sheet or skate move (skin, trick in/out, board on/off, ollie->kickflip, bull flight) */
   g.drawImage(...D);if(post)post();const fa=s.fadeT>0&&s.fadeD?Math.min(1,s.fadeT/.11):0;

diff --git a/scripts/icons/objects.py b/scripts/icons/objects.py
@@ -397,6 +397,7 @@ def o_runner(gait, frame):
     return [hub], []
 
 TRICK_N = 24   # frames per trick row (24 = ~40 fps over a 0.6 s trick)
+CORK_LOOP_N = 16   # one extra cork turn at the cork's mid speed (frame 11 -> 12 turns ~23 deg; 360 / 16 = 22.5)
 
 def _keys(vals, u):
     """evenly spaced keyframes, eased between: lets hand-keyed poses render at any frame count"""
@@ -424,11 +425,14 @@ def o_trick(kind, i, n=TRICK_N):
     goo:   0-3 melt into a rippling pancake, 4-7 pancake loop (seamless), 8-11 land: splat on the floor and spring back"""
     global DOLLAR
     body, limb = runner_mats(); R0 = _rest_limbs(); u = i / (n - 1)
+    ex = 0.0
+    if kind == 'corkloop':  # double cork: frame 11's held pose turning one more 360 in CORK_LOOP_N frames; plays between cork frames 11 and 12
+        kind, u, ex = 'cork', 11 / (TRICK_N - 1), (i + 1) / CORK_LOOP_N
     yaw, lean, bob, rot = math.radians(30), math.radians(R0['lean']), 0.0, Quaternion()
     sq, ctr, rip, legs, arms = 0.0, 0.25, 0.0, [], []
     L = lambda a, b, t: a.lerp(b, t)
     if kind in ('cork', 'spin'):
-        e = _ss(0, 1, u); env = math.sin(math.pi * u) ** 0.7
+        e = _ss(0, 1, u) + ex; env = math.sin(math.pi * u) ** 0.7
         if kind == 'cork':
             rot = Quaternion(Vector((0.7, 0, 0.7)).normalized(), 2 * math.pi * e)
             for k, side in enumerate((-1, 1)):
@@ -948,7 +952,7 @@ def o_hat(kind):
             ps.append(box('blade', [f2, stem][k], (0, 0, 0.6), (0.9, 0.16, 0.025), (math.radians(10), 0, math.radians(30 + 90 * k)), bv=0.01))
     return ps + [a], []
 
-OBJECTS = {'coin': (o_coin, -1), **{'trick-%s-%d' % (k, i): ((lambda k=k, i=i: o_trick(k, i)), 0) for k in ('cork', 'spin', 'split', 'goo') for i in range(TRICK_N)}, 'heart': (o_heart, 1), **{'bull-%d' % i: ((lambda i=i: o_bull(i)), 0) for i in range(96)}, **{'bearcp-%d' % i: ((lambda i=i: o_bear(i)), 0) for i in range(96)}, 'dolla': (o_dolla, 0), **{'dolla-%d' % v: ((lambda v=v: o_dolla(v)), 0) for v in (5, 20, 100)}, **{'skate-ride_%d-%d' % (p_, i): ((lambda p_=p_, i=i: o_skate('ride_%d' % p_, i)), 0) for p_ in SKATE_PITCH for i in range(SKATE_RIDE_N)}, **{'skate-%s-%d' % (k, i): ((lambda k=k, i=i: o_skate(k, i)), 0) for k, n_ in SKATE_SEQ.items() for i in range(n_)}, 'hat-top': (lambda: o_hat('top'), 0), 'hat-crown': (lambda: o_hat('crown'), 0), 'hat-prop': (lambda: o_hat('prop'), 0), 'bill': (o_bill, 0), **{'tick-%d' % t: ((lambda t=t: o_tick(t)), 0) for t in (1, 2, 3)}, **{'tick-r%d' % t: ((lambda t=t: o_tick(t, True)), 0) for t in (1, 2)}, 'rug': (o_rug, 0), 'rug-roll': (lambda: o_rug(True), 0), 'rocket': (o_rocket, 0), 'devwallet': (o_devwallet, 0), 'sign-100x': (o_sign100x, 0), 'bear': (o_bear, 0),  **{'dance-%d' % i: ((lambda i=i: o_dance(i)), 0) for i in range(DANCE_N)}, 'pu2-shield': (o_pu_shield, 1), 'pu2-magnet': (o_pu_magnet, 1), 'pu2-x2': (o_pu_x2, 1), 'pu2-dividend': (o_dividend, 1), 'logo3d': (o_logo3d, 0), **{'hero-%d' % i: ((lambda i=i: o_hero(i)), 0) for i in range(24)}, 'star': (o_star, 1), 'star-off': (lambda: o_star(True), 1), 'warn': (o_warn, -1), 'hook': (o_hook, 1), 'moon': (o_moon, -1), 'coin-silver': (lambda: o_coin('silver'), -1), 'coin-bronze': (lambda: o_coin('bronze'), -1),
+OBJECTS = {'coin': (o_coin, -1), **{'trick-%s-%d' % (k, i): ((lambda k=k, i=i: o_trick(k, i)), 0) for k in ('cork', 'spin', 'split', 'goo') for i in range(TRICK_N)}, **{'trick-corkloop-%d' % i: ((lambda i=i: o_trick('corkloop', i)), 0) for i in range(CORK_LOOP_N)}, 'heart': (o_heart, 1), **{'bull-%d' % i: ((lambda i=i: o_bull(i)), 0) for i in range(96)}, **{'bearcp-%d' % i: ((lambda i=i: o_bear(i)), 0) for i in range(96)}, 'dolla': (o_dolla, 0), **{'dolla-%d' % v: ((lambda v=v: o_dolla(v)), 0) for v in (5, 20, 100)}, **{'skate-ride_%d-%d' % (p_, i): ((lambda p_=p_, i=i: o_skate('ride_%d' % p_, i)), 0) for p_ in SKATE_PITCH for i in range(SKATE_RIDE_N)}, **{'skate-%s-%d' % (k, i): ((lambda k=k, i=i: o_skate(k, i)), 0) for k, n_ in SKATE_SEQ.items() for i in range(n_)}, 'hat-top': (lambda: o_hat('top'), 0), 'hat-crown': (lambda: o_hat('crown'), 0), 'hat-prop': (lambda: o_hat('prop'), 0), 'bill': (o_bill, 0), **{'tick-%d' % t: ((lambda t=t: o_tick(t)), 0) for t in (1, 2, 3)}, **{'tick-r%d' % t: ((lambda t=t: o_tick(t, True)), 0) for t in (1, 2)}, 'rug': (o_rug, 0), 'rug-roll': (lambda: o_rug(True), 0), 'rocket': (o_rocket, 0), 'devwallet': (o_devwallet, 0), 'sign-100x': (o_sign100x, 0), 'bear': (o_bear, 0),  **{'dance-%d' % i: ((lambda i=i: o_dance(i)), 0) for i in range(DANCE_N)}, 'pu2-shield': (o_pu_shield, 1), 'pu2-magnet': (o_pu_magnet, 1), 'pu2-x2': (o_pu_x2, 1), 'pu2-dividend': (o_dividend, 1), 'logo3d': (o_logo3d, 0), **{'hero-%d' % i: ((lambda i=i: o_hero(i)), 0) for i in range(24)}, 'star': (o_star, 1), 'star-off': (lambda: o_star(True), 1), 'warn': (o_warn, -1), 'hook': (o_hook, 1), 'moon': (o_moon, -1), 'coin-silver': (lambda: o_coin('silver'), -1), 'coin-bronze': (lambda: o_coin('bronze'), -1),
            **{'runner-%s-%d' % (g, i): ((lambda g=g, i=i: o_runner(g, i)), 0) for g, n in [*[(g, GAIT_N) for g in GAITS], *AIR.items()] for i in range(n)}, 'crypto': (o_crypto, 1), 'notes': (o_notes, -1), 'moneybag': (o_moneybag, 1), 'receipt': (o_receipt, -1),
            'tag': (o_tag, 1), 'bank': (o_bank, -1), 'tower': (o_tower, 1), 'factory': (o_factory, -1), 'crane': (o_crane, 1),
            'house': (o_house, -1), 'castle': (o_castle, 1), 'dome': (o_dome, -1), 'map': (o_map, 1), 'pin': (o_pin, -1), 'compass': (o_compass, 1)}

diff --git a/docs/ANIMATION.md b/docs/ANIMATION.md
@@ -73,7 +73,7 @@ Every trick is a **rendered Blender sequence**, not a canvas transform or a fade
 5. **Game:** add `{d, n}` to `TRK`, the row to `TROW`, and a direction or key in `flickDir` and the keydown map. If it isn't a straight play-through, give it a branch in `trickFrame` (see goo: in, loop, out).
 6. **Rules:** no canvas fakery (no scaleX flips, no cross-fades between poses). Motion lives in the frames, and loops must close (frame n+1 ≡ frame 0).
 
-## Trick combos: plan (stage 1 built, stages 2–4 to do)
+## Trick combos: plan (stages 1, 2 and 4 built; 3 open)
 
 Goal: flicking several times in one jump chains tricks together. The same direction twice continues and speeds up the current trick (double cork, 720 spin). Back and forth reverses it or combines two tricks into one move (a cork that flows into a spin). Every chain still lands cleanly. Build in the phases below; each phase is shippable on its own.
 
@@ -163,14 +163,21 @@ Tricks nudge the arc slightly, so combos feel physical:
 - **Scoring:**
   - `R.cn` and `R.cnames` count tricks completed in the air. The live label `R.clbl` above the runner grows and punches on each link.
   - On landing the chain pays `3·n²` if clean (no trick mid-rotation; a goo landing is always clean), with the name from `chainName()`: DOUBLE/TRIPLE, spin degrees, CORKSPIN + SPIN → TWISTER, otherwise joined with `+`. A landing that isn't clean pays nothing.
-- **Not yet:** spin rewind, true double-rotation loops without passing through REST, and bridges/combined poses (stages 2–3). Physics coupling for spin/split/cork, and lazy loading of the sheets (stage 4).
+- **Not yet:** bridges/combined poses (stage 3).
+
+### Stages 2 and 4: what's built (Nov 14 2026)
+
+- **Double / triple cork:** `o_trick('corkloop', i)` renders 16 frames (`CORK_LOOP_N`) of cork frame 11's held pose turning one more 360 at the cork's mid speed (22.5° a frame). They are row 4 of every `runner-trick*.webp` (sheets are now 5 rows; `th = naturalHeight/5`), HEADS.trick 96-111. Crop box for trick cells: `(30, 32, 215, 216)` of the 256 px render.
+- **Runtime:** `LP = {cork: [11, 96, 16], split: [15, 56, 8]}` = [after trick frame, first sheet frame, frames]. The same flick again before that frame (or during a loop) adds a pass (`T.ex`, max 2); the trick holds at that frame, plays the loop (`T.lp`, `T.lt`), and resumes half a frame later, so no pose repeats. Each pass counts as a chain link (DOUBLE / TRIPLE CORKSPIN, DOUBLE SPLIT); the land-aware warp counts and drops passes like queued tricks. A longer split replays its hold frames 8-15 (the pulse is near zero at both ends).
+- **Spin rewind / 720:** not built: → is ALL IN (the skateboard), so the ball spin is not reachable in play.
+- **Physics (stage 4):** `trkG()`: spin x.85, split x.7 gravity, at most +.35 s extra hang a jump (`R.hang`); cork again = one hop (`vy -= 140`, `R.hop`). Goo x1.6 was left out (a short swipe over a gap would drop you in). Sheets already load per skin on demand (`ldSkin`). Not done: the continuity script and the 30/120 fps checks.
 
 ### 8. Build order
 
 1. ✅ **Input stream, queue, acceleration and chaining through REST, with today's sheets** (every trick already starts and ends at REST, so any chain works via its out segment), plus the land-aware warp and `n·n` scoring. *No renders.*
-2. **Re-render as in/loop/out segments.** Double cork, 720, spin rewind and split extensions.
+2. ✅ **Loop segments:** double/triple cork (rendered), split extension (replayed hold). Spin rewind/720 dropped (spin is not reachable).
 3. **Bridges and combo names.**
-4. **Physics coupling, lazy loading of the skin sheets, the continuity script, and checks at 30, 60 and 120 fps.**
+4. ✅ (mostly) **Physics coupling, lazy loading of the skin sheets**; the continuity script and checks at 30/120 fps are open.
 
 ## Blending under spam (built)
 
